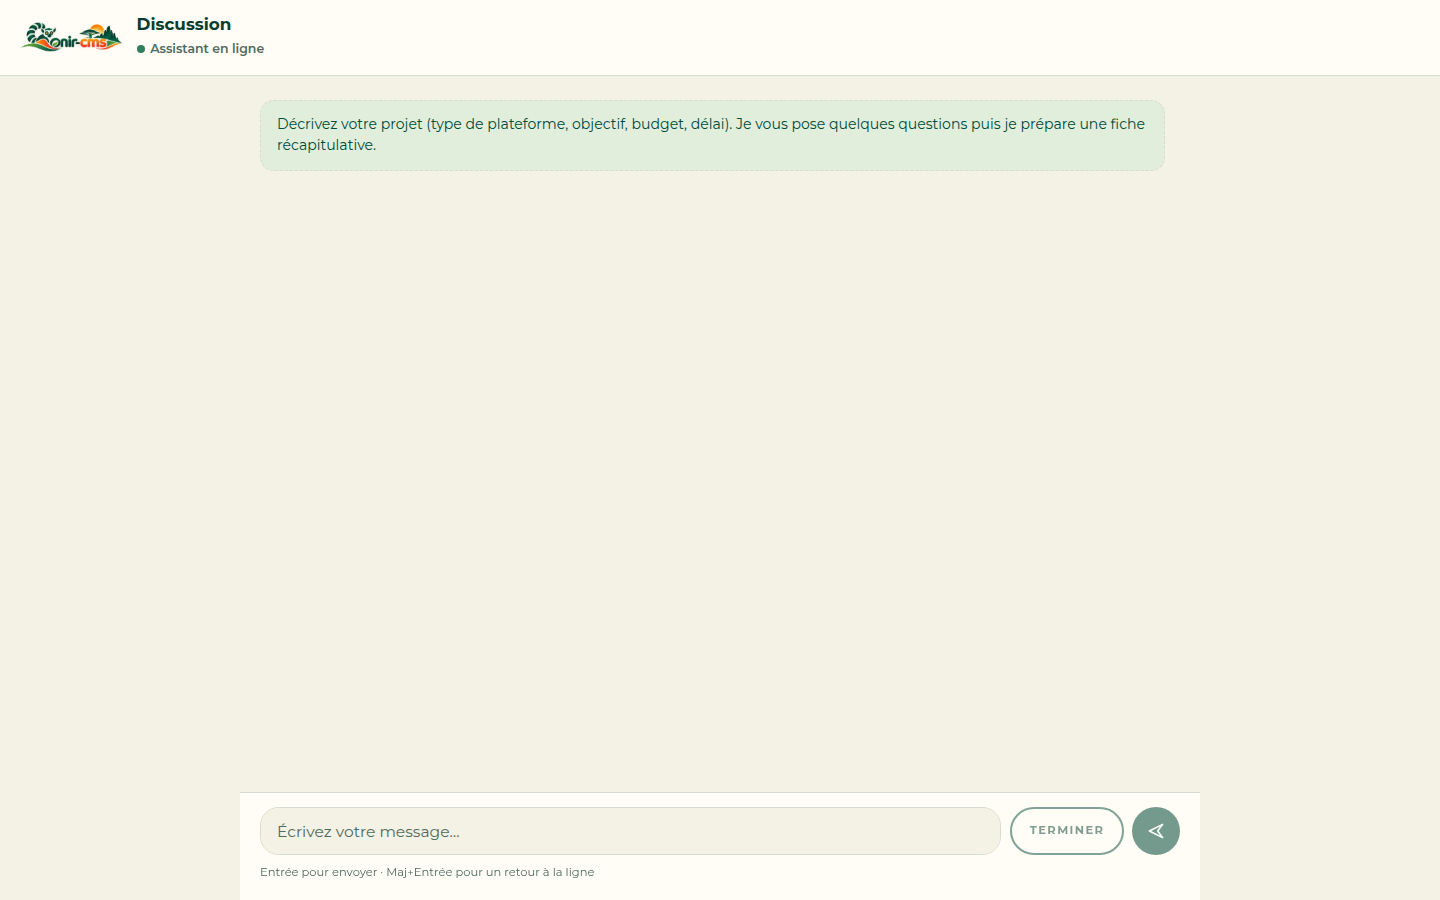
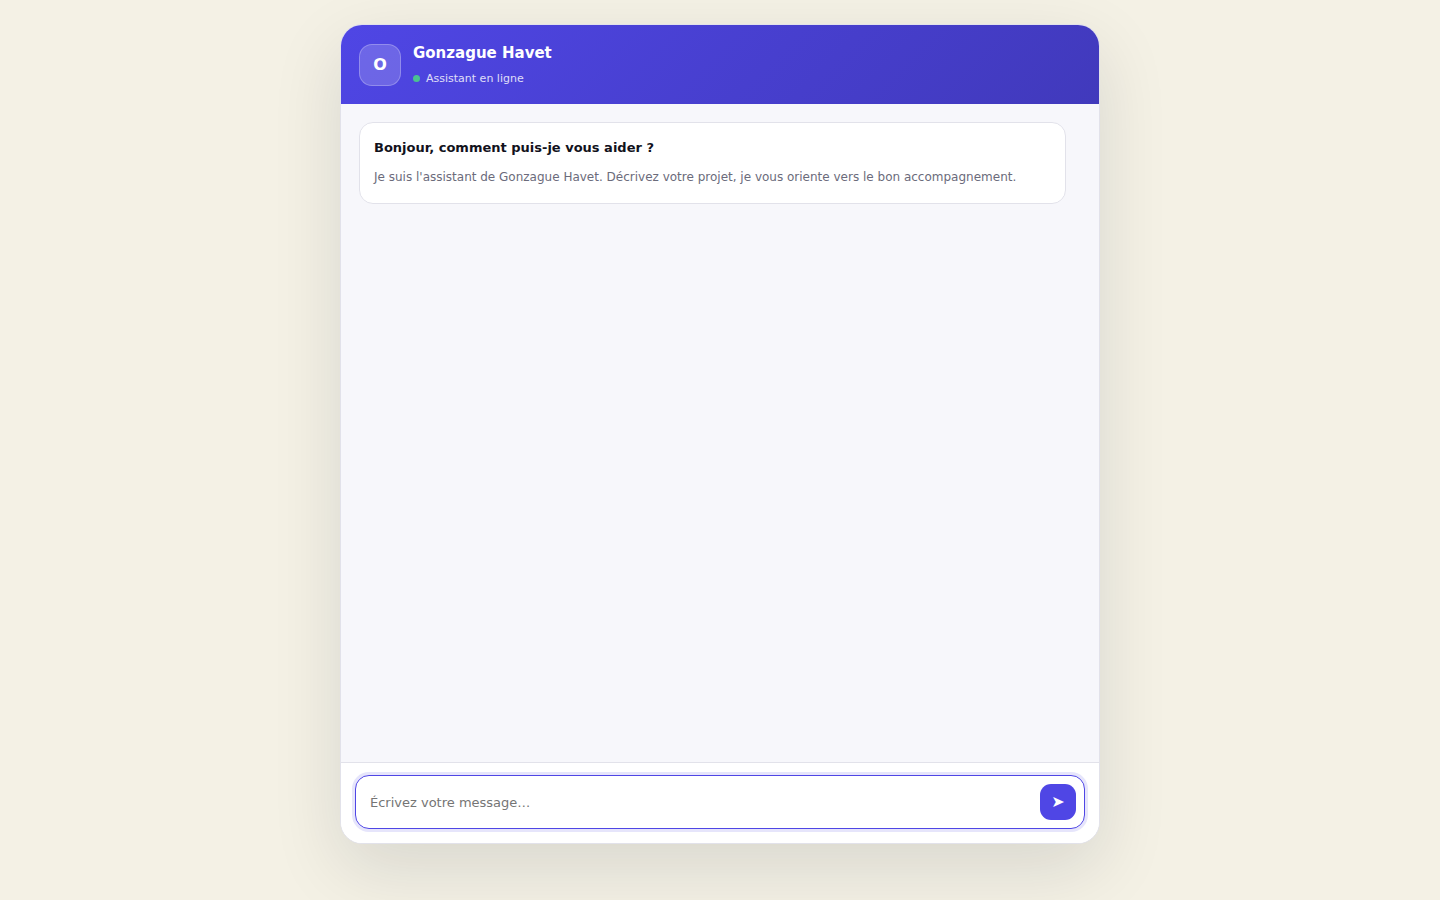
feat(landing): finalise HD-Orbite et le carrousel
Thème Starter HD-Orbite, flèches de navigation et quatrième chatbot.

Changed region(s): [[0.1875, 0.0, 0.7812, 0.2489], [0.1875, 0.84, 0.8438, 0.9956], [0.0, 0.0, 0.1875, 0.0622]]

diff --git a/assets/js/demo-carousel.js b/assets/js/demo-carousel.js
@@ -1,8 +1,9 @@
 (function () {
-  const carousels = document.querySelectorAll("[data-demo-carousel]");
-  carousels.forEach((carousel) => {
+  document.querySelectorAll("[data-demo-carousel]").forEach((carousel) => {
     const track = carousel.querySelector("[data-demo-track]");
     const dots = carousel.querySelector("[data-demo-dots]");
+    const previous = carousel.querySelector("[data-demo-prev]");
+    const next = carousel.querySelector("[data-demo-next]");
     const slides = Array.from(track?.children ?? []);
     if (!track || !dots || slides.length === 0) return;
 
@@ -21,50 +22,78 @@
       return Math.max(1, Math.round((track.clientWidth + gapSize()) / (slideWidth + gapSize())));
     }
 
+    function updateControls() {
+      if (previous) previous.disabled = page <= 0;
+      if (next) next.disabled = page >= pageCount - 1;
+    }
+
+    function updateDots() {
+      Array.from(dots.children).forEach((dot, index) => {
+        const active = index === page;
+        dot.classList.toggle("is-active", active);
+        if (active) dot.setAttribute("aria-current", "true");
+        else dot.removeAttribute("aria-current");
+      });
+      updateControls();
+    }
+
+    function pageOffsets() {
+      const maxScroll = Math.max(0, track.scrollWidth - track.clientWidth);
+      return Array.from({ length: pageCount }, (_, index) => {
+        const target = slides[Math.min(index * perPage(), slides.length - 1)];
+        return Math.min(target?.offsetLeft ?? 0, maxScroll);
+      });
+    }
+
     function scrollToPage(nextPage) {
-      const target = slides[Math.min(nextPage * perPage(), slides.length - 1)];
-      if (!target) return;
-      track.scrollTo({ left: target.offsetLeft, behavior: "smooth" });
+      const target = pageOffsets()[nextPage];
+      if (target === undefined) return;
+      track.scrollTo({ left: target, behavior: "smooth" });
+    }
+
+    function goToPage(nextPage) {
+      page = Math.max(0, Math.min(pageCount - 1, nextPage));
+      updateDots();
+      scrollToPage(page);
     }
 
     function renderDots() {
       const nextCount = Math.ceil(slides.length / perPage());
-      if (nextCount === pageCount && dots.children.length === nextCount) return;
+      if (nextCount === pageCount && dots.children.length === nextCount) {
+        updateControls();
+        return;
+      }
       pageCount = nextCount;
+      page = Math.min(page, pageCount - 1);
       dots.replaceChildren();
       for (let index = 0; index < pageCount; index += 1) {
         const dot = document.createElement("button");
         dot.type = "button";
         dot.className = "demo-dot";
         dot.setAttribute("aria-label", `Page ${index + 1}`);
-        dot.addEventListener("click", () => {
-          page = index;
-          updateDots();
-          scrollToPage(index);
-        });
+        dot.addEventListener("click", () => goToPage(index));
         dots.append(dot);
       }
       updateDots();
-    }
-
-    function updateDots() {
-      Array.from(dots.children).forEach((dot, index) => {
-        dot.classList.toggle("is-active", index === page);
-      });
     }
 
     function syncFromScroll() {
       if (frame) cancelAnimationFrame(frame);
       frame = requestAnimationFrame(() => {
         frame = 0;
-        const first = slides[0];
-        const step = first.offsetWidth + gapSize();
-        const current = Math.round(track.scrollLeft / Math.max(step, 1));
-        page = Math.min(pageCount - 1, Math.floor(current / perPage()));
+        const current = track.scrollLeft;
+        const offsets = pageOffsets();
+        let nearest = 0;
+        for (let index = 1; index < offsets.length; index += 1) {
+          if (Math.abs(offsets[index] - current) < Math.abs(offsets[nearest] - current)) nearest = index;
+        }
+        page = nearest;
         updateDots();
       });
     }
 
+    previous?.addEventListener("click", () => goToPage(page - 1));
+    next?.addEventListener("click", () => goToPage(page + 1));
     track.addEventListener("scroll", syncFromScroll, { passive: true });
     window.addEventListener("resize", renderDots);
     renderDots();

diff --git a/assets/css/landing-v2.css b/assets/css/landing-v2.css
@@ -760,7 +760,44 @@ a { color: inherit; }
 }
 
 /* Liste de démos, accès direct */
-.demo-carousel { margin-top: 1.5rem; }
+.demo-carousel { position: relative; margin-top: 1.5rem; padding: 0 2.8rem; }
+.demo-arrow {
+  position: absolute;
+  top: 50%;
+  z-index: 2;
+  display: grid;
+  width: 2.6rem;
+  height: 2.6rem;
+  place-items: center;
+  padding: 0;
+  border: 1px solid color-mix(in srgb, var(--ink) 10%, var(--line));
+  border-radius: 50%;
+  background: color-mix(in srgb, var(--card) 88%, transparent);
+  box-shadow: 0 10px 30px rgba(10, 20, 16, 0.12);
+  color: var(--ink);
+  cursor: pointer;
+  transform: translateY(-50%);
+  transition: transform 160ms ease, background 160ms ease, color 160ms ease, border-color 160ms ease, opacity 160ms ease;
+}
+.demo-arrow--prev { left: 0; }
+.demo-arrow--next { right: 0; }
+.demo-arrow:hover:not(:disabled) {
+  border-color: var(--accent);
+  background: var(--accent);
+  color: #fff;
+  transform: translateY(-50%) scale(1.05);
+}
+.demo-arrow:focus-visible { outline: 3px solid var(--accent-soft); outline-offset: 2px; }
+.demo-arrow:disabled { cursor: default; opacity: 0.3; }
+.demo-arrow svg {
+  width: 1.15rem;
+  height: 1.15rem;
+  fill: none;
+  stroke: currentColor;
+  stroke-linecap: round;
+  stroke-linejoin: round;
+  stroke-width: 2.2;
+}
 .demo-track {
   position: relative;
   display: flex;
@@ -800,7 +837,9 @@ a { color: inherit; }
   .demo-slide { flex-basis: calc((100% - 1rem) / 2); }
 }
 @media (max-width: 640px) {
+  .demo-carousel { padding: 0 2.2rem; }
   .demo-slide { flex-basis: 100%; }
+  .demo-arrow { width: 2.15rem; height: 2.15rem; }
 }
 .demo-card {
   display: flex;

diff --git a/src/_data/demoLinks.js b/src/_data/demoLinks.js
@@ -12,6 +12,6 @@ export default {
     process.env.MANDAMPRO_DEMO_URL ??
     (appBase ? `${appBase}/l/xDworc7TkeWuw88DZ_kFxopiKWJ6huZ-` : "https://magic-link.onir-cms.tech/l/gw2r5-pLuNx-fEKy1kcijYKxaUq1Sk4baBr5gLfFHEY"),
   hdorbite: appBase
-    ? "https://preprod-cms.onirtech.com/l/FnYAtJWz4AN_hq06X7cs8B2h4_YBtOBVohu1WwYUynQ"
-    : "https://magic-link.onir-cms.tech/l/aBijFZper6S33H-IuzhROGtFNVJzRoy0",
+    ? "https://preprod-cms.onirtech.com/l/frbOHTG0r3rnjQb_-OKGxY4PZh1iR2GDEaMkYq9xauw"
+    : "https://magic-link.onir-cms.tech/l/Zl0sSI2vyyXG-0ewfpEnSqvpeYHgFvYZDDttNzMWjV4",
 };
